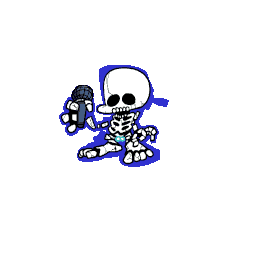
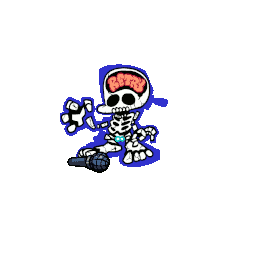
Changed BF image
1 - Changed BF gameover image
2 - Changed README.md
3 - Changed BF gameover y position

Changed region(s): [[0.2188, 0.25, 0.625, 0.6875]]

diff --git a/src/stage/stage.c b/src/stage/stage.c
@@ -1976,7 +1976,7 @@ void Stage_Tick(void)
 			RECT gameover_src = {0, 0, 255, 255};
 			RECT_FIXED gameover_dst = {
 				FIXED_DEC(-128,1),
-				FIXED_DEC(-98,1),
+				FIXED_DEC(-120,1),
 				FIXED_DEC(255,1),
 				FIXED_DEC(255,1)
 			};

diff --git a/README.md b/README.md
@@ -1,5 +1,5 @@
 # PSXFunkin Potage
-Another Engine for PSXFunkin LOL
+Another Engine for PSXFunkin
 
 ## Compilation
 Refer to [COMPILE.md](/COMPILE.md) here
@@ -10,22 +10,19 @@ This project is not endorsed by the original Friday Night Funkin' and PSXFunkin 
 ## What this engine add?
 
 # Pause Menu
-You can now pause the game and resume when needed!!
+You can now pause and resume the game when needed
 
 # Save System
-You can save now, which means you can save your score and options!
+You can save now, which means you can save your score and option
 
 # Easier Code
-I tried my best for make the code readable and easy as i can do
-
-# Different
-My engine looks the overlays version of psxfunkin so it way different the way it handle some stuffs, making easier for modding
+I tried my best for make the code readable as possible
 
 # STR 
 Now you can play STR!! (Video)
 
 # Sound effects
-This engine have sounds effects like scroll!!
+This engine have sounds effects like scroll sound in menu
 
 # And a lot more
-My engine added timer, new icons, new story mode and much more!!!!
+My engine added timer, new icons, new story mode and much more

diff --git a/COMPILE.md b/COMPILE.md
@@ -68,15 +68,7 @@ TIP: For any make, try appending `-jX` to the end of it, where X is the number o
 
 `make -f Makefile.tools` This will compile the tools found in [tools/](/tools/).
 
-`make -f Makefile.tim` This will convert all the pngs in [iso/](/iso/) to TIM files that can be displayed by the PS1.
-
-`make -f Makefile.xa` This will convert all the oggs in [iso/music/](/iso/music/) to XA files that can be played by the PS1. This step will take a WHILE. Be patient!
-
-`make -f Makefile.cht` This will convert all the jsons in [iso/chart/](/iso/chart/) to cht files that can be played by the game.
-
-`make -f Makefile.vag` This will convert all the short oggs in [iso/sounds/](/iso/sounds/) to vag files that can be played by the game.
-
-`make -f Makefile.str` This will convert all the mp4 in [iso/movies/](/iso/movies/) to str files that can be played by the game. (WIP!!)
+`make -f Makefile.assets` This will convert all the assets [iso/](/iso/) (TIM, XA, CHT AND VAG files)
 
 You can read more about these asset formats in [FORMATS.md](/FORMATS.md)
 
